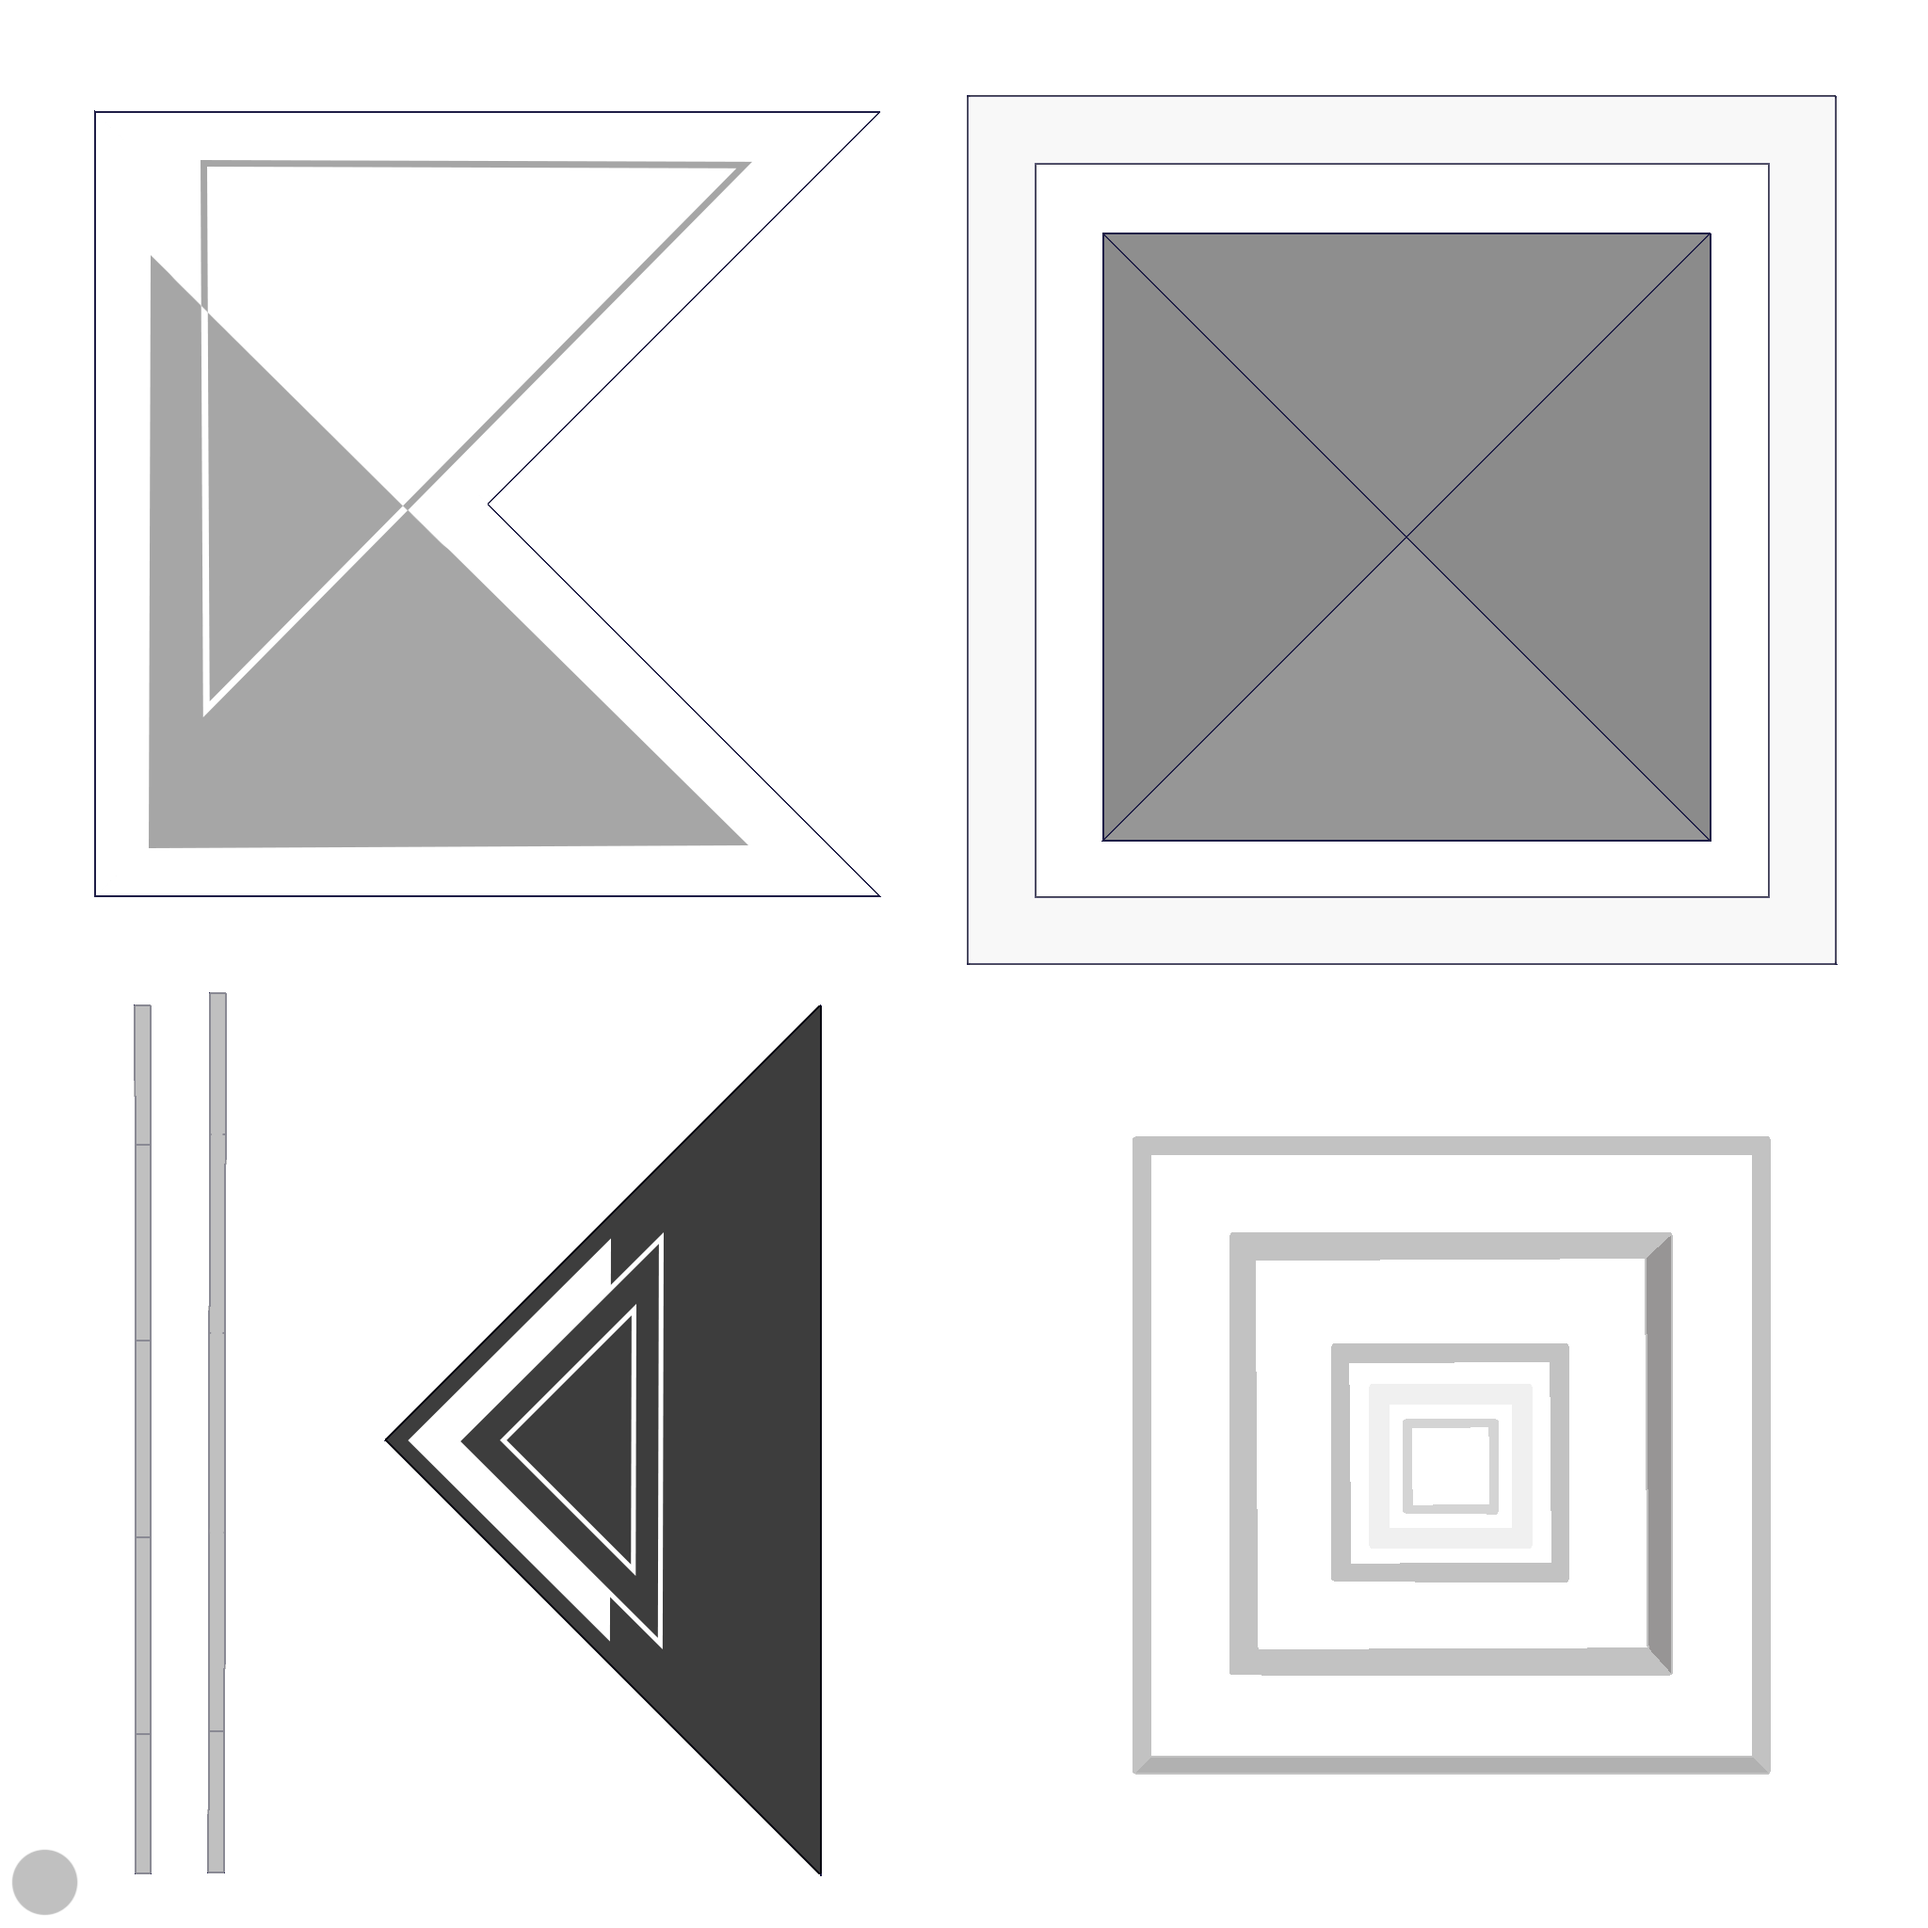
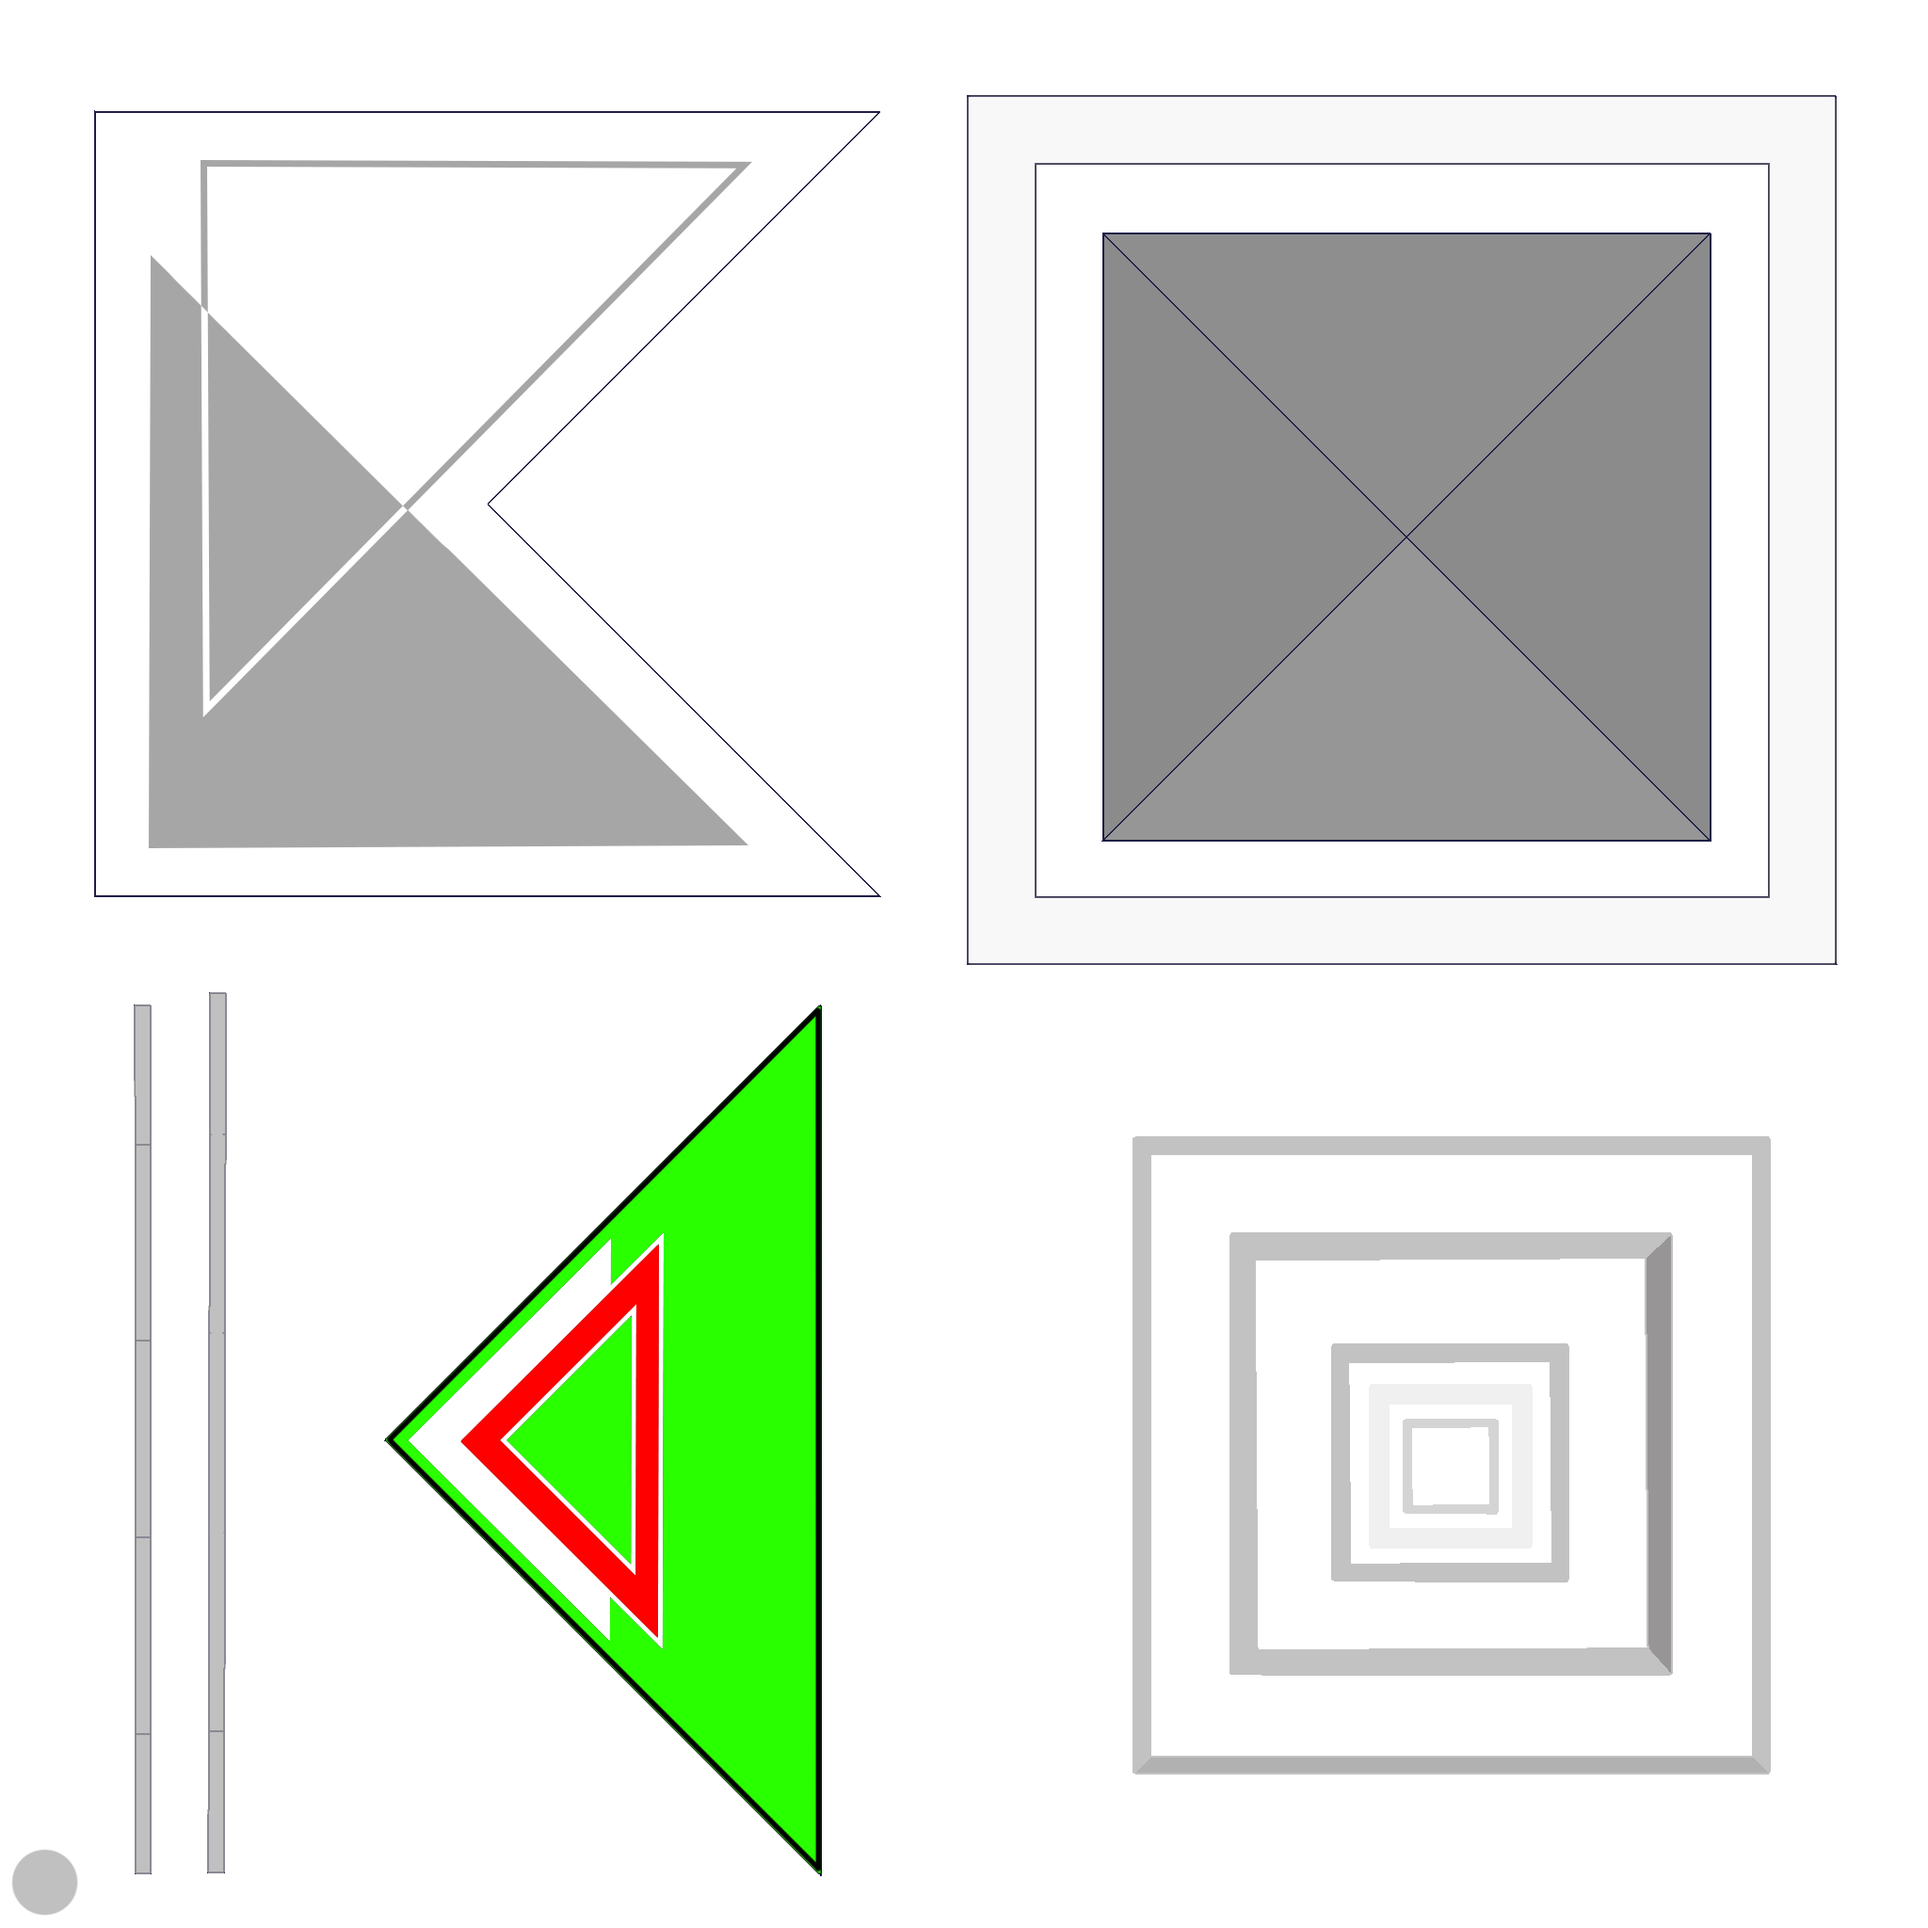
上から見るとビールボードが反転するバグを修正

Changed region(s): [[0.1875, 0.5312, 0.4375, 0.9688]]

diff --git a/2025年前期/GameSources/Sprite.cpp b/2025年前期/GameSources/Sprite.cpp
@@ -569,15 +569,16 @@ namespace basecross {
 	void Board::OnUpdate() {
 		if (!m_IsBillBoard) return;
 
-		Vec3 defUp = Vec3(0, 1, 0);
-		auto camera = OnGetDrawCamera();
+		auto camera = static_pointer_cast<MainCamera>(OnGetDrawCamera());
+		Vec3 defUp = camera->GetUp();
+		
 		Vec3 eye = camera->GetEye();
 		Vec3 at = camera->GetAt();
 
 		Vec3 temp = at - eye;
 		Vec2 tempVec2(temp.x, temp.z);
 		if (length(tempVec2) < 0.1f) {
-			defUp = bsm::Vec3(0, 0, 1.0f);
+			defUp = -camera->GetCameraDirection();
 		}
 		temp.normalize();
 		Mat4x4 rotMatrix = static_cast<Mat4x4>(XMMatrixLookAtLH(Vec3(0, 0, 0), temp, defUp));

diff --git a/2025年前期/GameSources/MainCamera.cpp b/2025年前期/GameSources/MainCamera.cpp
@@ -97,5 +97,27 @@ namespace basecross{
 		SetEye(CalcPosition(m_Angle.y, m_Angle.x));
 		SetAt(center);
 	}
+
+	Vec3 MainCamera::GetCameraDirection() {
+		int degree = abs(round(XMConvertToDegrees(m_Angle.x)));
+		int mod = (degree / 90) % 4;
+		
+		switch (mod)
+		{
+		case 0:
+			return Vec3(1, 0, 0);
+			break;
+		case 1:
+			return Vec3(0, 0, 1);
+			break;
+		case 2:
+			return Vec3(-1, 0, 0);
+			break;
+		case 3:
+			return Vec3(0, 0, -1);
+			break;
+		}
+		return Vec3();
+	}
 }
 //end basecross

diff --git a/2025年前期/GameSources/MainCamera.h b/2025年前期/GameSources/MainCamera.h
@@ -34,6 +34,8 @@ namespace basecross{
 		virtual void OnUpdate()override;
 
 		void SetFixedPoint(shared_ptr<Map> map);
+
+		Vec3 GetCameraDirection();
 	};
 }
 //end basecross
